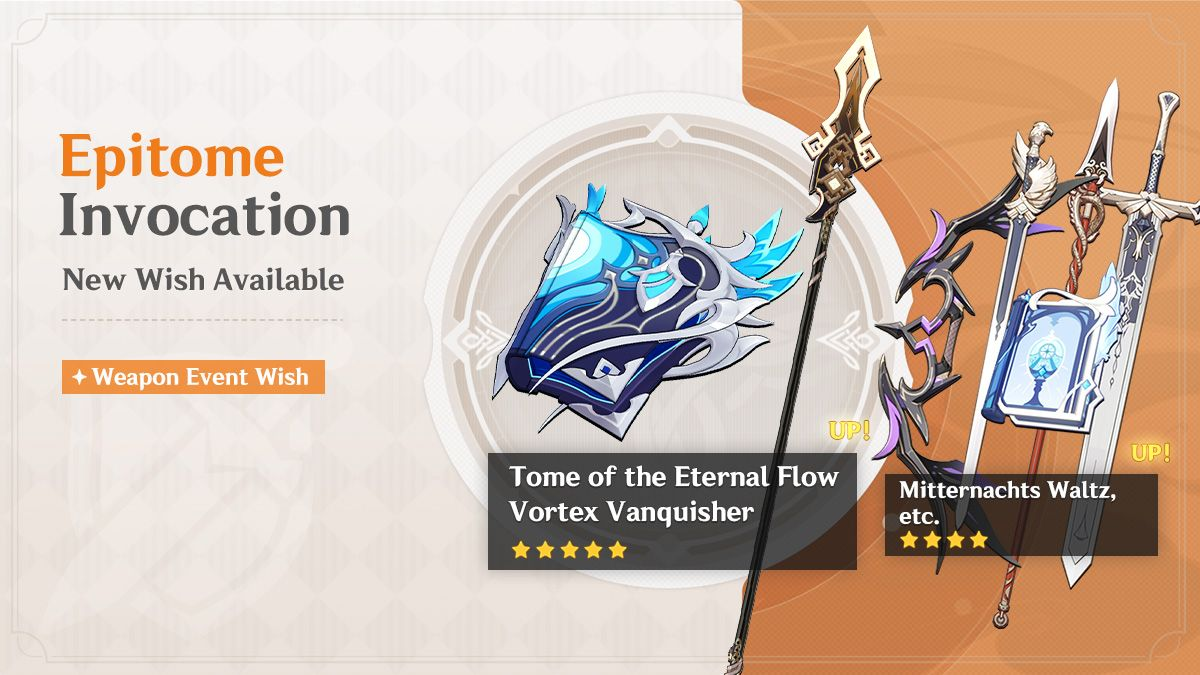
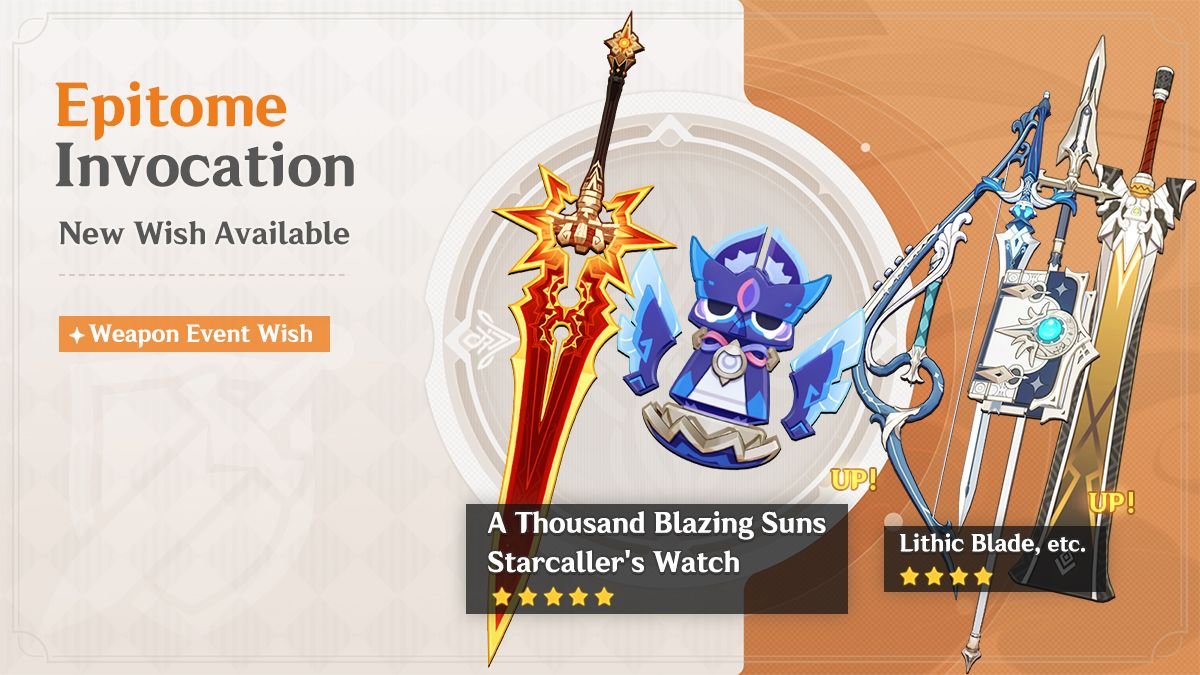
Genshin 5.3 update Phase 1

diff --git a/GenshinWishCounter1.5/Service/DatabaseService.cs b/GenshinWishCounter1.5/Service/DatabaseService.cs
@@ -23,6 +23,7 @@ namespace GenshinWishCounter1._5.Service
             new FiveStarModel{ Name = "Baizhu", Type = CategoryStrings.Dendro, IsStandard =  false },
             new FiveStarModel{ Name = "Chasca", Type = CategoryStrings.Anemo, IsStandard =  false },
             new FiveStarModel{ Name = "Chiori", Type = CategoryStrings.Geo, IsStandard =  false },
+            new FiveStarModel{ Name = "Citlali", Type = CategoryStrings.Cryo, IsStandard =  false },
             new FiveStarModel{ Name = "Clorinde", Type = CategoryStrings.Electro, IsStandard = false },
             new FiveStarModel{ Name = "Cyno", Type = CategoryStrings.Electro, IsStandard = false },
             new FiveStarModel{ Name = "Dehya", Type = CategoryStrings.Pyro, IsStandard = true },
@@ -40,6 +41,7 @@ namespace GenshinWishCounter1._5.Service
             new FiveStarModel{ Name = "Klee", Type = CategoryStrings.Pyro, IsStandard = false },
             new FiveStarModel{ Name = "Kokomi", Type = CategoryStrings.Hydro, IsStandard = false },
             new FiveStarModel{ Name = "Lyney", Type = CategoryStrings.Pyro, IsStandard = false },
+            new FiveStarModel{ Name = "Mavuika", Type = CategoryStrings.Pyro, IsStandard = false },
             new FiveStarModel{ Name = "Mona", Type = CategoryStrings.Hydro, IsStandard = true },
             new FiveStarModel{ Name = "Mualani", Type = CategoryStrings.Hydro, IsStandard = false },
             new FiveStarModel{ Name = "Nahida", Type = CategoryStrings.Dendro, IsStandard = false },
@@ -65,8 +67,9 @@ namespace GenshinWishCounter1._5.Service
             };
         private List<FiveStarModel> GenshinWeaponList = new List<FiveStarModel>()
         {
-            new FiveStarModel{ Name = "Astral Vulture's Crimson Plumage", Type = CategoryStrings.Bow, IsStandard = false},
+            new FiveStarModel{ Name = "A Thousand Blazing Suns", Type = CategoryStrings.Claymore, IsStandard = false},
             new FiveStarModel{ Name = "A Thousand Floating Dreams", Type = CategoryStrings.Catalyst, IsStandard = false},
+            new FiveStarModel{ Name = "Astral Vulture's Crimson Plumage", Type = CategoryStrings.Bow, IsStandard = false},
             new FiveStarModel { Name = "Absolution", Type = CategoryStrings.Sword, IsStandard = false },
             new FiveStarModel { Name = "Amos' Bow", Type = CategoryStrings.Bow, IsStandard = true },
             new FiveStarModel { Name = "Aqua Simulacra", Type = CategoryStrings.Bow, IsStandard = false },
@@ -106,6 +109,7 @@ namespace GenshinWishCounter1._5.Service
             new FiveStarModel { Name = "Splendor of Tranquil Waters", Type = CategoryStrings.Sword, IsStandard = false },
             new FiveStarModel { Name = "Staff of Homa", Type = CategoryStrings.Polearm, IsStandard = false },
             new FiveStarModel { Name = "Staff of the Scarlet Sands", Type = CategoryStrings.Polearm, IsStandard = false },
+            new FiveStarModel { Name = "Starcaller's Watch", Type = CategoryStrings.Catalyst, IsStandard = false },
             new FiveStarModel { Name = "Summit Shaper", Type = CategoryStrings.Sword, IsStandard = false },
             new FiveStarModel { Name = "Surf's Up", Type = CategoryStrings.Catalyst, IsStandard = false },
             new FiveStarModel { Name = "The First Great Magic", Type = CategoryStrings.Bow, IsStandard = false },
